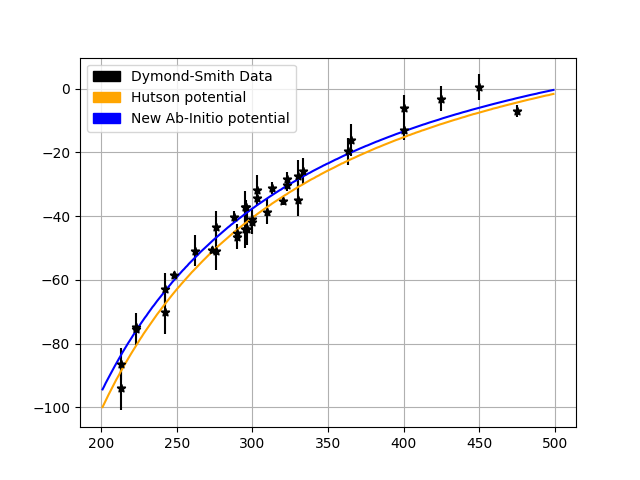
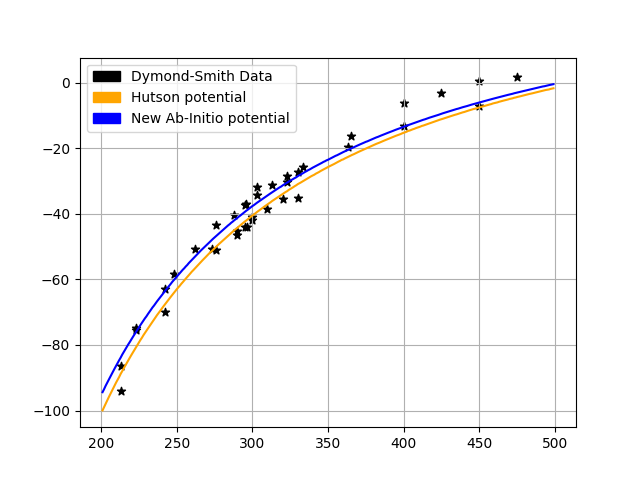
repaired pictures and table

diff --git a/monte-carlo/SVC/data/SVC_plotter.py b/monte-carlo/SVC/data/SVC_plotter.py
@@ -37,7 +37,7 @@ print 'len(temperatures2): {0}'.format(len(temperatures2))
 print 'len(temperatures3): {0}'.format(len(temperatures3))
 
 
-lowest_temperature = 100
+lowest_temperature = 200
 highest_temperature = 500
 #temperatures1, parker_svc = cut_data(temperatures1, parker_svc, 800)
 temperatures2, hutson_svc = cut_data(temperatures2, hutson_svc, lowest_temperature, highest_temperature)
@@ -69,12 +69,13 @@ blue_patch = mpatches.Patch(color = 'blue', label = 'New Ab-Initio potential')
 temperatures = [213., 213., 223., 223.2, 242., 242., 248.2, 262., 273.2, 276., 276., 288.2, 
         290.0, 290.0, 295., 295., 296., 296.15, 300.,
         300.0, 303.15, 303.2, 310., 313.2, 320., 322.85, 323.1, 330., 330., 333.15, 363.15,
-        365., 400., 400., 425., 450., 475.]
+        365., 400., 400., 425., 450., 450., 475.]
 
 svcs = [-86.3, -94.0, -75.5, -74.8, -62.9, -70.0, -58.4, -50.8, -50.6, -43.4, -51.0, -40.3,
         -45.2, -46.4, -37.2, -44.0, -37.0, -44.1, -40.8,
         -41.7, -31.8, -34.2, -38.6, -31.2, -35.3, -30.1, -28.3, -27.3, -35.0, -25.8, -19.6,
         -16.2, -6.0, -13.0, -3.1, 0.5, -7.0, 1.7]
+
 errors = [5., 7., 5.0, 1.0, 5.0, 7.0, 1.0, 5.0, 1.0, 5.0, 6.0, 2.0,
           1.4, 4.0, 5.0, 6.0, 2.0, 5.0, 1.3,
           4.0, 4.6, 2.0, 4.0, 2.0, 1.3, 2.0, 2.0, 5.0, 5.0, 4.2, 4.2,
@@ -83,7 +84,7 @@ errors = [5., 7., 5.0, 1.0, 5.0, 7.0, 1.0, 5.0, 1.0, 5.0, 6.0, 2.0,
 
 for temperature, svc, error in zip(temperatures, svcs, errors):
     plt.scatter(temperature, svc, marker = '*', color = 'k') 
-    plt.errorbar(temperature, svc, error, color = 'k', fmt = "*--")
+    #plt.errorbar(temperature, svc, error, color = 'k', fmt = "*--")
 
 error_patch = mpatches.Patch(color = 'k', label = 'Dymond-Smith Data')
 
@@ -92,4 +93,4 @@ plt.legend(handles = [error_patch, orange_patch, blue_patch])
 plt.grid()
 #plt.show()
 
-plt.savefig('Exp_Hutson_Julia2.png')
+plt.savefig('Exp_Hutson_Julia1.png')

diff --git a/monte-carlo/SVC/ab_initio_potential_scripts/SVC.py b/monte-carlo/SVC/ab_initio_potential_scripts/SVC.py
@@ -31,7 +31,7 @@ def cycle(T):
     
     start = time()
     integ = vegas.Integrator([[0., 100.], [0., np.pi]])
-    result = integ(_integrand, nitn = 50, neval = 10**4)
+    result = integ(_integrand, nitn = 50, neval = 5 * 10**4)
     print 'result = %s Q = %.2f' % (result, result.Q)
 
     SVC = np.pi * avogadro * result.mean * length_unit**3 * 10**(-4) # 10**6 to convert from m3/mol to cm3/mol
@@ -43,14 +43,16 @@ def cycle(T):
     return SVC
 
 def save_data(temperatures, svcs):
-    file_path = '/home/artfin/Desktop/repos/classical-trajectories/classical-trajectories/monte-carlo/SVC/data/ab-initio/SVC_from0.dat'
+    file_path = '/home/artfin/Desktop/repos/classical-trajectories/classical-trajectories/monte-carlo/SVC/data/ab-initio/SVC_experimental_points.dat'
     with open(file_path, mode = 'a') as out:
         for temperature, svc in zip(temperatures, svcs):
             out.write(str(temperature) + ' ' + str(svc) + '\n')
 
 initialization(T = 100)
 
-temperatures = [100 + i for i in range(401)]
+# temperatures = [100 + i for i in range(401)]
+temperatures = [213., 223., 242., 248.2, 262., 273.2, 276., 288.2, 290., 295., 296., 296.15, 300., 303.15, 303.2, 310.0, 313.2, 320.0, 322.85, 323.1, 330.0, 333.15, 363.15, 365., 400., 425., 450., 475.]
+
 svcs = [cycle(temperature) for temperature in temperatures]
 
 save_data(temperatures, svcs)

diff --git a/monte-carlo/SVC/ab_initio_potential_scripts/SVC1_r_ab_initio.py b/monte-carlo/SVC/ab_initio_potential_scripts/SVC1_r_ab_initio.py
@@ -54,14 +54,15 @@ def cycle(T):
     return SVC_correction
 
 def save_data(temperatures, svc_corrections):
-    filename = '/home/artfin/Desktop/repos/classical-trajectories/classical-trajectories/monte-carlo/SVC/data/hutson/SVC1_r_hutson.dat'
+    filename = '/home/artfin/Desktop/repos/classical-trajectories/classical-trajectories/monte-carlo/SVC/data/ab-initio/SVC1r_experimental_points.dat'
 
     with open(filename, mode = 'w') as out:
         for temperature, svc_correction in zip(temperatures, svc_corrections):
             out.write(str(temperature) + ' ' + str(svc_correction) + '\n')
 
 # initialization(200)
-temperatures = [100 + 10 * i for i in range(71)]
+# temperatures = [100 + 10 * i for i in range(71)]
+temperatures = [213., 223., 242., 248.2, 262., 273.2, 276., 288.2, 290., 295., 296., 296.15, 300., 303.15, 303.2, 310.0, 313.2, 320.0, 322.85, 323.1, 330.0, 333.15, 363.15, 365., 400., 425., 450., 475.]
 svc_corrections = [cycle(temperature) for temperature in temperatures]
 
 save_data(temperatures, svc_corrections)

diff --git a/monte-carlo/full_hamiltonian.py b/monte-carlo/full_hamiltonian.py
@@ -42,13 +42,13 @@ def integrand(x, Temperature):
     else:
 	return 0.0
 
-limits = [[0., 1000], # J
+limits = [[0., 100], # J
 	  [0., 2 * np.pi], # alpha (J varphi)
 	  [0, np.pi], # beta (J theta)
-	  [0, 1000.], # R 
+	  [0, 100.], # R 
 	  [0, np.pi / 2], # theta 
-	  [0, 1000.], # pR,
-	  [-1000., 1000.], # pT
+	  [0, 100.], # pR,
+	  [-100., 100.], # pT
 ]
 
 h = 6.626070040*10**(-34)
@@ -72,7 +72,7 @@ def cycle(T):
     
     # turns out that neval = 3*10**5 is too small
     start = time()
-    result = integ(_integrand, nitn = 50, neval = 3 * 10**6)
+    result = integ(_integrand, nitn = 50, neval = 10**6)
     print 'Time needed: {0}'.format(time() - start)
     print 'result = %s Q = %.2f' % (result, result.Q)
     return result.mean

diff --git a/monte-carlo/SVC/ab_initio_potential_scripts/SVC1_t_ab_initio.py b/monte-carlo/SVC/ab_initio_potential_scripts/SVC1_t_ab_initio.py
@@ -59,7 +59,9 @@ def save_data(temperatures, svc_corrections):
             out.write(str(temperature) + ' ' + str(svc_correction) + '\n')
 
 # initialization(200)
-temperatures = [100 + i for i in range(201)]
+#temperatures = [100 + i for i in range(101)]
+temperatures = [213., 223., 242., 248.2, 262., 273.2, 276., 288.2, 290., 295., 296., 296.15, 300., 303.15, 303.2, 310.0, 313.2, 320.0, 322.85, 323.1, 330.0, 333.15, 363.15, 365., 400., 425., 450., 475.]
+
 svc_corrections = [cycle(temperature) for temperature in temperatures]
 
 save_data(temperatures, svc_corrections)

diff --git a/monte-carlo/SVC/table.md b/monte-carlo/SVC/table.md
@@ -1,0 +1,3 @@
+![table1](https://cloud.githubusercontent.com/assets/15310535/24352291/abc8ed42-12f1-11e7-9f0a-8453b5e6a8c7.png)
+![table2](https://cloud.githubusercontent.com/assets/15310535/24352292/abf1be66-12f1-11e7-97e9-f36ef86cbf9e.png)
+
